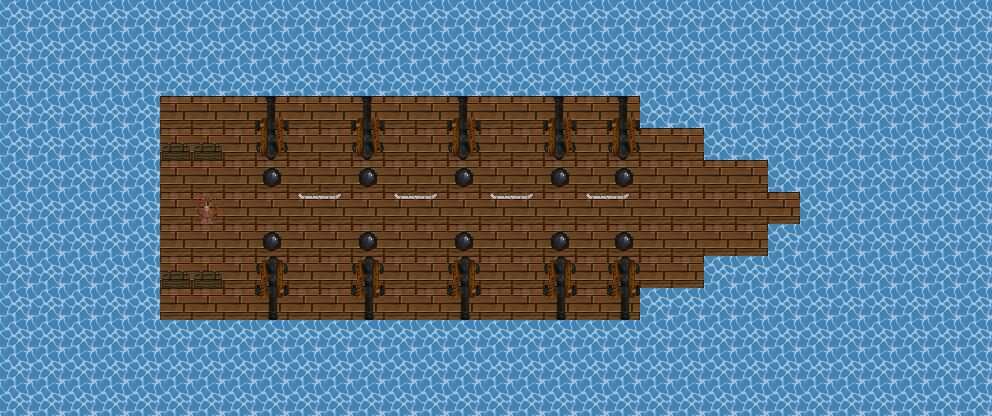
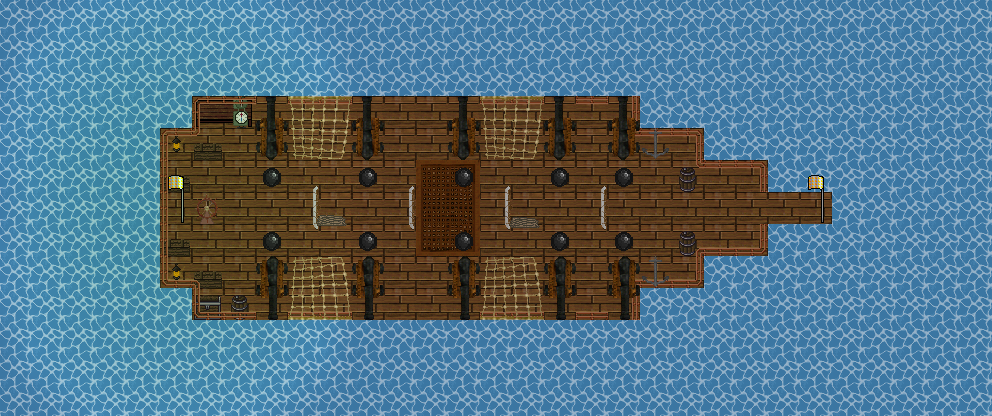
Broadside: images of both dressed ships
Claude-Session: https://claude.ai/code/session_016WTP2SGWHhqKdsGn179AL8

diff --git a/src/maps/Broadside.md b/src/maps/Broadside.md
@@ -1,8 +1,13 @@
 # Broadside
 
 <figure>
-<img class="pixelated" style="image-rendering: pixelated; height: auto" src="../images/maps/broadside.png" width="992" height="416" loading="lazy" alt="The French ship at anchor: a plank deck with a tiller at the stern, four masts down the middle and five guns on each side">
-<figcaption>The French ship at anchor at the start of a round.</figcaption>
+<img class="pixelated" style="image-rendering: pixelated; height: auto" src="../images/maps/broadside.png" width="992" height="416" loading="lazy" alt="The French ship Foudroyant at anchor: railed plank deck, tiller and captain's table at the stern, four masts, five guns on each side and a bowsprit with the French jack">
+<figcaption>The French ship <i>Foudroyant</i> at anchor at the start of a round.</figcaption>
+</figure>
+
+<figure>
+<img class="pixelated" style="image-rendering: pixelated; height: auto" src="../images/maps/broadside_pirates.png" width="992" height="416" loading="lazy" alt="The pirate ship Black Gull at anchor: weathered grey deck, black flags, hammocks forward and five guns on each side">
+<figcaption>The pirate ship <i>Black Gull</i>.</figcaption>
 </figure>
 
 Two ships under sail on open sea: a French man-of-war against a pirate ship. Both sides start aboard their own ship at anchor, and when the signal gun fires the battle is on.
@@ -11,7 +16,7 @@ Two ships under sail on open sea: a French man-of-war against a pirate ship. Bot
 
 Each ship has a **tiller** at the stern, four masts and five guns on each side. Use the tiller to weigh anchor, ring a speed (slow or half ahead) and come about to the north, east, south or west. The ship carries everything aboard with her: crew, guns and stores. Only her own crew can steer her, and nobody can touch the tiller until the signal gun fires.
 
-The two ships start in different lanes, so the usual plan is to steer alongside the enemy and fire on her as you pass.
+Railings line both ships, with gaps at the gun ports and amidships for boarding. The two ships start in different lanes, so the usual plan is to steer alongside the enemy and fire on her as you pass.
 
 ## Broadsides
 
